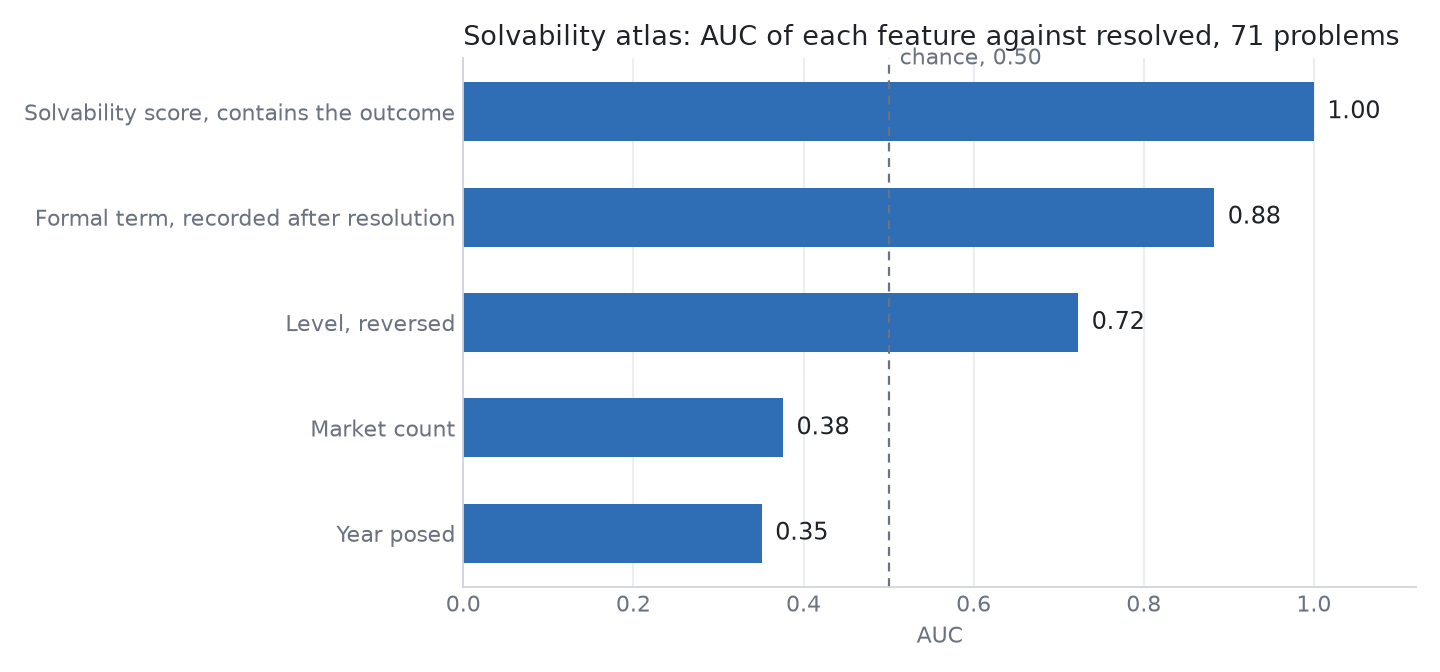
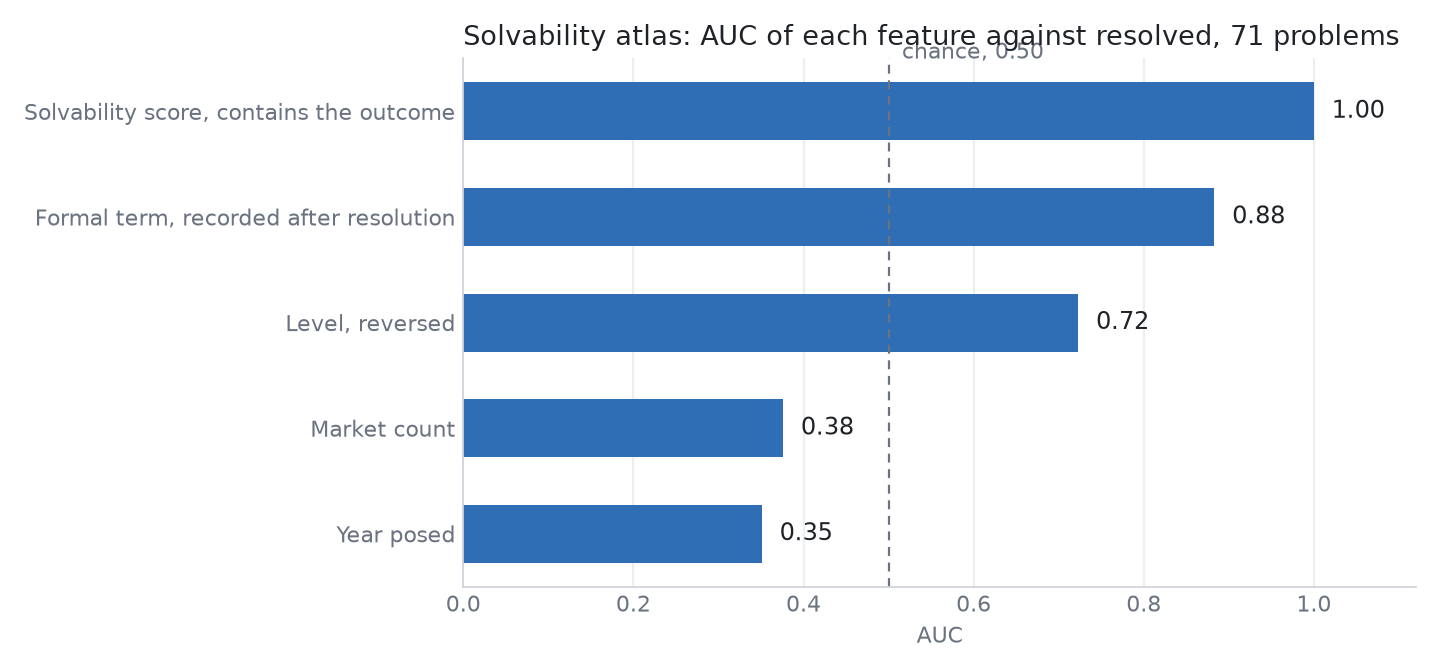
fix(atlas): tie the score backtest to the claims ledger and the dated tests (bkt-0p21)
A claimed row counts as open; backtest.json lists it. BACKTEST.md points to the dated tests on dev and sends no high score to a prover.
backtest.py now draws backtest.png; tests recompute the result and check the tables against it.

diff --git a/tools/solvability-atlas/backtest.py b/tools/solvability-atlas/backtest.py
@@ -1,7 +1,17 @@
-import csv, json, pathlib
+import argparse, csv, json, pathlib
 import numpy as np
 
+import claims
+
+HERE = pathlib.Path(__file__).parent
+PROBLEMS = HERE / "problems.tsv"
+RESULT = HERE / "backtest.json"
+PLOT = HERE / "backtest.png"
 FORMAL = {"proved": 1.0, "partial": 0.6, "statement": 0.35, "none": 0.1}
+WEIGHT_RESOLVED, WEIGHT_FORMAL = 0.55, 0.45
+LABELS = {"solvability_score": "Solvability score, contains the outcome", "formal_term_alone": "Formal term, recorded after resolution", "level_reversed": "Level, reversed",
+          "market_count": "Market count", "year_posed": "Year posed"}
+INK, MUTE, BLUE, RULE, GRID = "#1f2328", "#6b7280", "#2f6db5", "#d0d4da", "#eceef1"
 
 
 def auc(scores, labels):
@@ -20,25 +30,69 @@ def interval(scores, labels, rng, n=2000):
     return [round(float(np.percentile(vals, 2.5)), 3), round(float(np.percentile(vals, 97.5)), 3)]
 
 
-def main():
-    rows = list(csv.DictReader(open("problems.tsv"), delimiter="\t"))
+def claimed_ids(rows, ledger=None):
+    ruling = claims.governing(claims.entries() if ledger is None else ledger)
+    return sorted(r["id"] for r in rows if ruling.get(r["id"], {}).get("status") == claims.CLAIMED)
+
+
+def compute(rows, ledger=None):
     rng = np.random.default_rng(0)
     y = [bool(r["resolved"]) for r in rows]
     level = [int(r["level"]) for r in rows]
     formal = [FORMAL[r["lean"]] for r in rows]
-    score = [0.55 * a + 0.45 * f for a, f in zip(y, formal)]
+    score = [WEIGHT_RESOLVED * a + WEIGHT_FORMAL * f for a, f in zip(y, formal)]
     markets = [len([m for m in r["market"].split(";") if m]) for r in rows]
     posed = [int(r["posed"]) for r in rows]
     wait = [int(r["resolved"]) - int(r["posed"]) for r in rows if r["resolved"]]
     features = {"solvability_score": score, "formal_term_alone": formal, "level_reversed": [-v for v in level], "year_posed": posed, "market_count": markets}
     table = lambda key: {k: {"problems": sum(1 for r in rows if r[key] == k), "resolved": sum(1 for r, v in zip(rows, y) if r[key] == k and v)} for k in sorted({r[key] for r in rows})}
-    out = {"problems": len(rows), "resolved": int(sum(y)), "auc": {k: {"auc": auc(v, y), "ci95": interval(v, y, rng)} for k, v in features.items()},
-           "by_level": table("level"), "by_branch": table("branch"), "by_lean": table("lean"),
-           "years_to_resolution": {"n": len(wait), "median": float(np.median(wait)), "min": min(wait), "max": max(wait)},
-           "resolved_since_2000": sum(1 for r in rows if r["resolved"] and int(r["resolved"]) >= 2000),
-           "posed_before_resolved_check": all(int(r["resolved"]) >= int(r["posed"]) for r in rows if r["resolved"])}
-    pathlib.Path("backtest.json").write_text(json.dumps(out, indent=1))
-    print(json.dumps(out, indent=1))
+    return {"problems": len(rows), "resolved": int(sum(y)), "auc": {k: {"auc": auc(v, y), "ci95": interval(v, y, rng)} for k, v in features.items()},
+            "by_level": table("level"), "by_branch": table("branch"), "by_lean": table("lean"),
+            "years_to_resolution": {"n": len(wait), "median": float(np.median(wait)), "min": min(wait), "max": max(wait)},
+            "resolved_since_2000": sum(1 for r in rows if r["resolved"] and int(r["resolved"]) >= 2000),
+            "posed_before_resolved_check": all(int(r["resolved"]) >= int(r["posed"]) for r in rows if r["resolved"]),
+            "claimed_counted_open": claimed_ids(rows, ledger)}
+
+
+def plot(result, path):
+    import matplotlib
+    matplotlib.use("Agg")
+    import matplotlib.pyplot as plt
+
+    keys = sorted(result["auc"], key=lambda k: result["auc"][k]["auc"])
+    values = [result["auc"][k]["auc"] for k in keys]
+    fig, ax = plt.subplots(figsize=(9, 4.2), dpi=160)
+    ax.barh(range(len(keys)), values, height=0.55, color=BLUE)
+    for i, v in enumerate(values):
+        ax.annotate(f"{v:.2f}", (v, i), xytext=(8, 0), textcoords="offset points", va="center", color=INK, fontsize=11)
+    ax.axvline(0.5, color=MUTE, lw=1, ls=(0, (4, 3)))
+    ax.annotate("chance, 0.50", (0.5, len(keys) - 0.5), xytext=(6, 0), textcoords="offset points", color=MUTE, fontsize=10)
+    ax.set_yticks(range(len(keys)))
+    ax.set_yticklabels([LABELS[k] for k in keys], color=MUTE, fontsize=10)
+    ax.set_xlim(0, 1.12)
+    ax.set_xlabel("AUC", color=MUTE, fontsize=10)
+    ax.set_title(f"Solvability atlas: AUC of each feature against resolved, {result['problems']} problems", color=INK, fontsize=12, loc="left")
+    for side in ("top", "right"):
+        ax.spines[side].set_visible(False)
+    for side in ("left", "bottom"):
+        ax.spines[side].set_color(RULE)
+    ax.tick_params(colors=MUTE, length=0)
+    ax.grid(axis="x", color=GRID, lw=1)
+    ax.set_axisbelow(True)
+    fig.tight_layout()
+    fig.savefig(path)
+    plt.close(fig)
+
+
+def main():
+    ap = argparse.ArgumentParser()
+    ap.add_argument("--plot", action="store_true")
+    a = ap.parse_args()
+    result = compute(list(csv.DictReader(open(PROBLEMS), delimiter="\t")))
+    RESULT.write_text(json.dumps(result, indent=1))
+    print(json.dumps(result, indent=1))
+    if a.plot:
+        plot(result, PLOT)
 
 
 if __name__ == "__main__":

diff --git a/tools/solvability-atlas/tests/test_backtest.py b/tools/solvability-atlas/tests/test_backtest.py
@@ -1,0 +1,89 @@
+import csv
+import json
+import sys
+from pathlib import Path
+
+import pytest
+
+sys.path.insert(0, str(Path(__file__).parent.parent))
+import backtest
+import claims
+import thresholds as th
+
+ATLAS = Path(__file__).parent.parent
+DOC = (ATLAS / "BACKTEST.md").read_text()
+NAMES = {"solvability_score": "Solvability score", "formal_term_alone": "Formal term alone", "level_reversed": "Level, reversed", "year_posed": "Year posed", "market_count": "Market count"}
+
+
+@pytest.fixture(scope="module")
+def rows():
+    return list(csv.DictReader(open(backtest.PROBLEMS), delimiter="\t"))
+
+
+@pytest.fixture(scope="module")
+def committed():
+    return json.loads(backtest.RESULT.read_text())
+
+
+def test_committed_result_is_what_the_script_computes(rows, committed):
+    assert backtest.compute(rows) == committed
+    assert backtest.RESULT.read_text() == json.dumps(committed, indent=1)
+
+
+def test_weights_and_formal_values_match_the_atlas():
+    assert (backtest.WEIGHT_RESOLVED, backtest.WEIGHT_FORMAL) == (th.SHIPPED["weight_resolved"], th.SHIPPED["weight_formal"])
+    assert f"FORMAL = {json.dumps(backtest.FORMAL)}" in (ATLAS / "atlas.py").read_text()
+
+
+def test_score_auc_is_one_because_the_score_holds_the_outcome(committed):
+    assert committed["auc"]["solvability_score"] == {"auc": 1.0, "ci95": [1.0, 1.0]}
+    assert backtest.WEIGHT_RESOLVED > backtest.WEIGHT_FORMAL * (max(backtest.FORMAL.values()) - min(backtest.FORMAL.values()))
+
+
+def test_auc_counts_ties_as_half_and_reverses_with_the_sign():
+    assert backtest.auc([1, 2, 3, 4], [False, False, True, True]) == 1.0
+    assert backtest.auc([1, 1], [True, False]) == 0.5
+    assert backtest.auc([3, 1, 2], [True, False, False]) == 1.0
+    assert backtest.auc([-3, -1, -2], [True, False, False]) == 0.0
+
+
+def test_a_claimed_row_has_no_resolved_year_and_counts_as_open(rows, committed):
+    ruling = claims.governing(claims.entries())
+    claimed = sorted(r["id"] for r in rows if ruling.get(r["id"], {}).get("status") == claims.CLAIMED)
+    assert committed["claimed_counted_open"] == claimed
+    assert all(not r["resolved"] for r in rows if r["id"] in claimed)
+    assert committed["resolved"] == sum(1 for r in rows if r["resolved"])
+
+
+def test_a_ledger_entry_for_the_full_problem_marks_the_row_claimed(rows):
+    first_open = next(r["id"] for r in rows if not r["resolved"])
+    ledger = [{"id": first_open, "match": claims.SETTLING_MATCH, "date": "2026-10-06", "family": "fixture", "confirmation": None, "withdrawn": None}]
+    result = backtest.compute(rows, ledger)
+    assert result["claimed_counted_open"] == [first_open]
+    assert result["resolved"] == backtest.compute(rows, [])["resolved"]
+    assert backtest.compute(rows, [])["claimed_counted_open"] == []
+
+
+def test_every_table_row_in_the_doc_comes_from_the_result(committed):
+    for key, name in NAMES.items():
+        cell = committed["auc"][key]
+        assert f"| {name} | {cell['auc']:.3f} | {cell['ci95'][0]:.3f} to {cell['ci95'][1]:.3f} |" in DOC
+    for level, cell in committed["by_level"].items():
+        assert f"| {level} | {cell['problems']} | {cell['resolved']} |" in DOC
+    wait = committed["years_to_resolution"]
+    assert f"{committed['resolved']} of {committed['problems']} problems are resolved" in DOC
+    assert f"The median wait from posed to resolved is {wait['median']:.0f} years, range {wait['min']} to {wait['max']}" in DOC
+    for claimed in committed["claimed_counted_open"]:
+        assert f"`{claimed}`" in DOC
+
+
+def test_the_doc_sends_no_high_score_to_a_prover():
+    assert "gives no reason to hand a problem to a prover" in DOC
+    assert "worth handing" not in DOC
+
+
+def test_plot_draws_one_bar_per_feature(tmp_path, committed):
+    target = tmp_path / "backtest.png"
+    backtest.plot(committed, target)
+    assert target.stat().st_size > 10_000
+    assert set(backtest.LABELS) == set(committed["auc"])

diff --git a/tools/solvability-atlas/BACKTEST.md b/tools/solvability-atlas/BACKTEST.md
@@ -1,6 +1,6 @@
 # Atlas Score Backtest
 
-Bead bkt-0p21. The atlas gives each of 71 problems a solvability score, `0.55 * resolved + 0.45 * formal`. This check asks what the score can predict.
+Bead bkt-0p21. The atlas gives each of the 71 problems in `problems.tsv` a solvability score, `0.55 * resolved + 0.45 * formal`. This check asks what that score can predict. It covers the hand catalog alone; the dated tests on the full set are in `THRESHOLDS.md`, `CLAIMS-2026-10.md` and `SURFACE.md`.
 
 ## Result
 
@@ -12,11 +12,17 @@ Bead bkt-0p21. The atlas gives each of 71 problems a solvability score, `0.55 * 
 | Year posed | 0.351 | 0.189 to 0.526 | yes |
 | Market count | 0.376 | 0.278 to 0.485 | yes |
 
-[empirical: tools/solvability-atlas/problems.tsv, 2026-10-01, python3 backtest.py]
+[empirical: tools/solvability-atlas/backtest.json, 2026-10-13, python3 backtest.py]
 
-15 of 71 problems are resolved. The score separates them from the open ones with no error because 55% of it is the resolved flag. All 10 problems with Lean status `proved` are resolved and none of the 10 with status `statement` are, so the formal term records the outcome too. The score describes the present state of a problem. It carries no forecast.
+15 of 71 problems are resolved [empirical: tools/solvability-atlas/backtest.json, 2026-10-13, python3 backtest.py]. The score separates them from the open ones with no error because 55% of it is the resolved flag [empirical: tools/solvability-atlas/backtest.json, 2026-10-13, python3 backtest.py]. All 10 problems with Lean status `proved` are resolved and none of the 10 with status `statement` are, so the formal term records the outcome too [empirical: tools/solvability-atlas/backtest.json, 2026-10-13, python3 backtest.py]. The score describes the present state of a problem. It carries no forecast, and a high score gives no reason to hand a problem to a prover.
 
-Two features exist before a resolution. Newer problems have a lower resolved share, with an interval that crosses 0.5. Problems that touch more markets have a lower resolved share too, with an interval of 0.278 to 0.485. Level gives 0.72, and a curator who knew each outcome assigned it.
+The weight sweep in `THRESHOLDS.md` reaches the same reading from the other side: every resolved weight from 0.474 to 1 puts each resolved row above each open row [empirical: tools/solvability-atlas/thresholds/thresholds.json, 2026-10-11, python3 thresholds.py].
+
+Two features exist before a resolution. Newer problems have a lower resolved share, AUC 0.351 with an interval that crosses 0.5 [empirical: tools/solvability-atlas/backtest.json, 2026-10-13, python3 backtest.py]. Problems that touch more markets have a lower resolved share too, with an interval of 0.278 to 0.485 [empirical: tools/solvability-atlas/backtest.json, 2026-10-13, python3 backtest.py]. Level gives 0.723, and a curator who knew each outcome assigned it [empirical: tools/solvability-atlas/backtest.json, 2026-10-13, python3 backtest.py].
+
+## Claimed Rows
+
+Resolved means a resolved year in `problems.tsv`. A row with status `claimed` in the claims ledger has no resolved year and counts as open here, the rule in `claims.py`. One catalog problem is claimed today, `uniquegames`, and `backtest.json` lists it under `claimed_counted_open` [empirical: tools/solvability-atlas/backtest.json, 2026-10-13, python3 backtest.py].
 
 ## Resolved Problems
 
@@ -27,14 +33,25 @@ Two features exist before a resolution. Newer problems have a lower resolved sha
 | 4 | 28 | 6 |
 | 5 | 32 | 3 |
 
-10 of the 15 resolved problems are in mathematics and 4 in information. Physics, chemistry, cosmology and mind hold 23 problems and no resolved one. The median wait from posed to resolved is 62 years, range 0 to 387.
+[empirical: tools/solvability-atlas/backtest.json, 2026-10-13, python3 backtest.py]
+
+10 of the 15 resolved problems are in mathematics and 4 in information [empirical: tools/solvability-atlas/backtest.json, 2026-10-13, python3 backtest.py]. Physics, chemistry, cosmology and mind hold 23 problems and no resolved one [empirical: tools/solvability-atlas/backtest.json, 2026-10-13, python3 backtest.py]. The median wait from posed to resolved is 62 years, range 0 to 387 [empirical: tools/solvability-atlas/backtest.json, 2026-10-13, python3 backtest.py].
 
 ## Limits
 
-- The catalog has one version, so no past snapshot exists to score and then check. Every number here is in-sample.
-- 71 rows, 15 resolved. The intervals are wide.
+- The hand catalog has one version, so it has no past snapshot to score and then check. Every number here is in-sample.
+- 71 rows, 15 resolved [empirical: tools/solvability-atlas/backtest.json, 2026-10-13, python3 backtest.py]. The intervals are wide.
 - The catalog is hand-picked and holds famous problems, which skews it toward long waits.
 
-## Next Step
+## Dated Tests
 
-A forecast needs a date. Freeze today's catalog with a probability per open problem from features known today, store it, and score it against outcomes at a fixed later date. `backtest.py` then has a real test set.
+A forecast needs a date, and the 71-row catalog has none. The full set does: `forecast.py` freezes a forecast at the cutoffs 2005, 2015 and 2021 and `scoring.py` scores each against later outcomes. `THRESHOLDS.md` tests reach as a classifier on that set, `CLAIMS-2026-10.md` tests the frontier on the October claims, and `SURFACE.md` reports a null result for map features beyond the posed year. Nothing in this file adds to or changes those results.
+
+## Reproduce
+
+```bash
+python3 backtest.py --plot
+python3 -m pytest tests/test_backtest.py
+```
+
+`backtest.py` reads `problems.tsv` and the claims ledger, writes `backtest.json`, and with `--plot` redraws `backtest.png`. `backtest.json` is the source for every number in this file; `tests/test_backtest.py` recomputes it and checks both tables against it.

diff --git a/tools/solvability-atlas/README.md b/tools/solvability-atlas/README.md
@@ -59,6 +59,10 @@ The frontier circle sits at reach 0.795, the 10th percentile of each solved prob
 
 `THRESHOLDS.md` holds the sensitivity sweep of the frontier and score constants, the test of reach as a classifier and the proposed values. `python3 thresholds.py` rebuilds `thresholds/`.
 
+## Score Backtest
+
+`BACKTEST.md` checks the solvability score against the resolved flag on the 71 catalog problems. The score contains the outcome, so it describes the present state of a problem and carries no forecast. `python3 backtest.py --plot` rebuilds `backtest.json` and `backtest.png`.
+
 ## Problem records
 
 `records.py` builds one JSON record per problem in `records/` from OpenAlex, Wikipedia, arXiv and the repo's own corpora, with every network field carrying its source URL and licence. Schema, relevance filter and build flags: `records/SCHEMA.md`. Per-problem counts, a status per record and the neighbour shift between keyword and record embeddings: `records/INDEX.md` (`python3 neighbour_shift.py` rebuilds the shift section). Responses cache under `cache/`, which stays out of git. Records hold Wikipedia text under CC BY-SA 4.0 with attribution; the code is MIT and the derived numbers are CC0 in intent.
